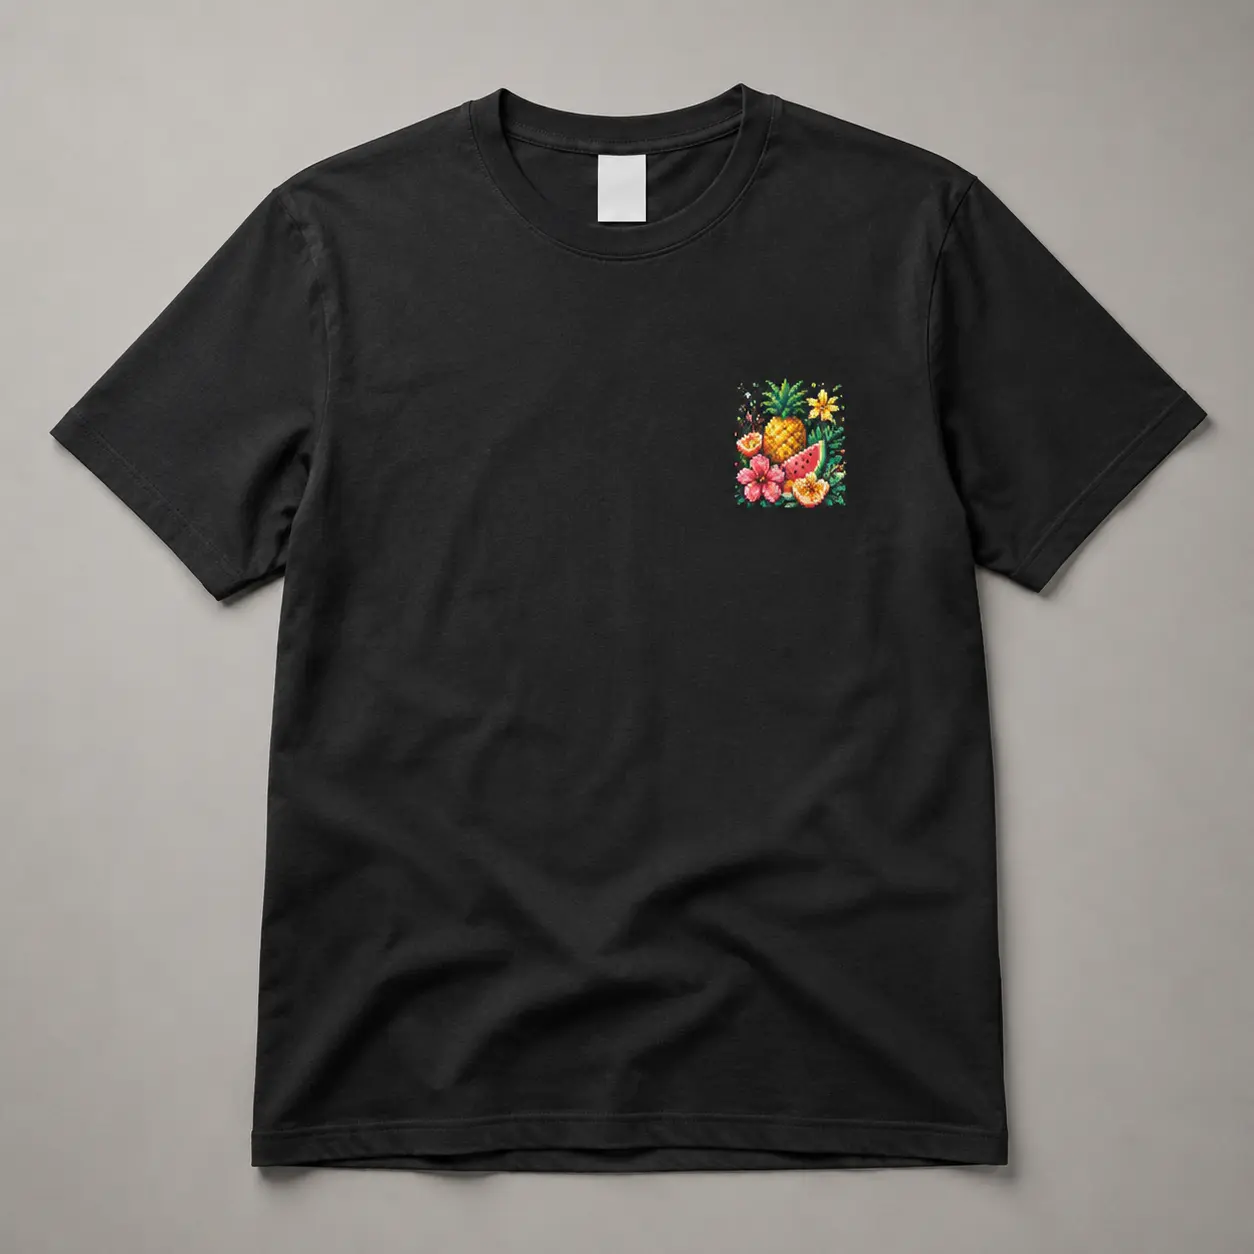
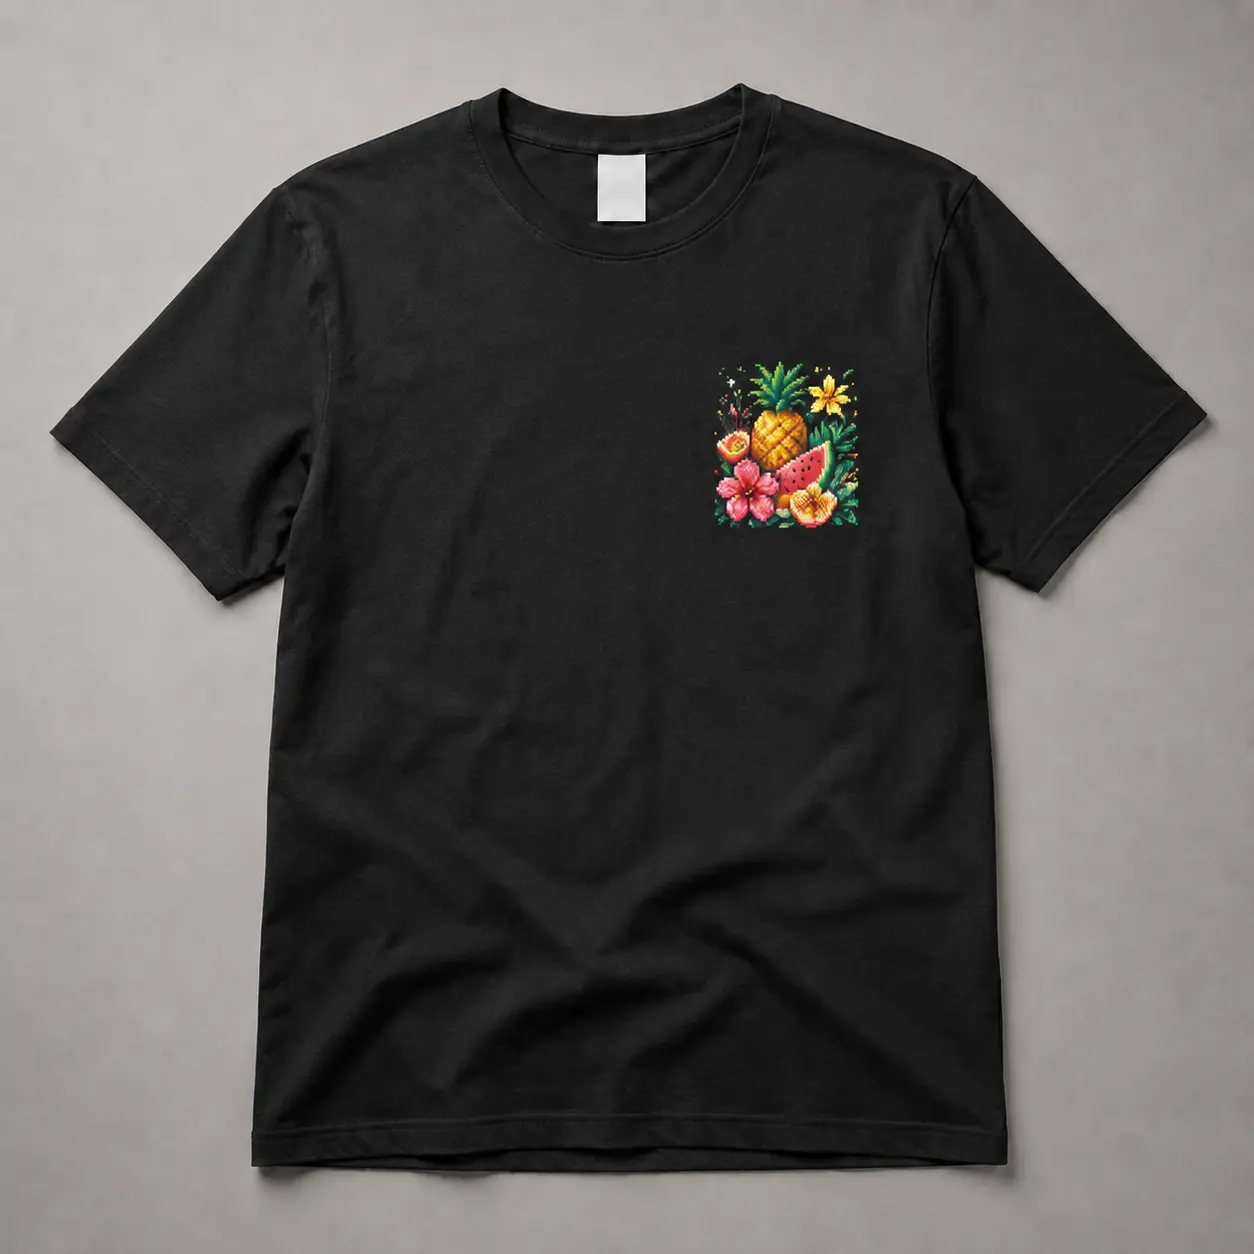
Match DTF samples to actual print ratios

Changed region(s): [[0.5598, 0.2799, 0.6842, 0.4354]]

diff --git a/prices/index.html b/prices/index.html
@@ -8,31 +8,29 @@
 <meta name="description" content="オリジナルTシャツ10枚・30枚・50枚の参考価格と、左胸10cm角・A4・A3のDTFプリント加工料金を分かりやすく紹介します。">
 <meta name="author" content="株式会社ハダオジ"><link rel="canonical" href="https://hadaojiprint.github.io/prices/">
 <meta property="og:type" content="website"><meta property="og:locale" content="ja_JP"><meta property="og:site_name" content="ウェアプリントLAB">
-<meta property="og:title" content="オリジナルTシャツの料金目安｜ウェアプリントLAB"><meta property="og:description" content="10枚・30枚・50枚の参考価格を、架空のプリントイメージと内訳で紹介します。">
+<meta property="og:title" content="オリジナルTシャツの料金目安｜ウェアプリントLAB"><meta property="og:description" content="10枚・30枚・50枚の参考価格を、プリントイメージと内訳で紹介します。">
 <meta property="og:url" content="https://hadaojiprint.github.io/prices/"><meta property="og:image" content="https://hadaojiprint.github.io/public/wearprint-lab-hero.png"><meta name="twitter:card" content="summary_large_image">
-<script type="application/ld+json">{"@context":"https://schema.org","@type":"WebPage","name":"オリジナルTシャツの料金目安","url":"https://hadaojiprint.github.io/prices/","description":"オリジナルTシャツ10枚・30枚・50枚の参考価格を架空のプリントイメージと内訳で紹介します。","dateModified":"2026-08-28","inLanguage":"ja"}</script>
+<script type="application/ld+json">{"@context":"https://schema.org","@type":"WebPage","name":"オリジナルTシャツの料金目安","url":"https://hadaojiprint.github.io/prices/","description":"オリジナルTシャツ10枚・30枚・50枚の参考価格をプリントイメージと内訳で紹介します。","dateModified":"2026-08-28","inLanguage":"ja"}</script>
 <link rel="icon" href="../public/favicon.svg"><link rel="stylesheet" href="../styles.css?v=20260828t">
 <!-- Google AdSense --><script async src="https://pagead2.googlesyndication.com/pagead/js/adsbygoogle.js?client=ca-pub-6042145732175462" crossorigin="anonymous"></script>
 </head><body class="info-page prices-page"><div class="scanlines" aria-hidden="true"></div>
 <header class="game-header island-header"><a class="logo" href="../"><span class="logo-pixel">W</span><span>WEAR PRINT<br><b>LAB</b></span></a><nav aria-label="メインメニュー"><a href="../">TOP</a><a href="../works/">WORKS</a><a href="../estimate/">ESTIMATE</a></nav><a class="pixel-button small" href="../">MAP ◀</a></header>
 <main>
-  <section class="info-hero prices-hero"><div class="info-hero-inner"><span class="info-kicker">PRICE QUEST / SAMPLE EQUIPMENT</span><h1>料金目安</h1><p>架空のプリントイメージを使い、枚数・加工・製版を含む参考価格を紹介します。</p></div></section>
+  <section class="info-hero prices-hero"><div class="info-hero-inner"><span class="info-kicker">PRICE QUEST / SAMPLE EQUIPMENT</span><h1>料金目安</h1><p>プリントイメージを使い、枚数・加工・製版を含む参考価格を紹介します。</p></div></section>
   <div class="prices-main">
-    <section class="price-notice" aria-label="料金についての注意"><b>PRICE GUIDE</b><div><h2>すべて架空のイメージです</h2><p>掲載画像は料金説明用に制作したサンプルです。実在するお客様・チーム・店舗とは関係ありません。</p></div></section>
-
     <div class="price-sample-grid">
       <article class="price-sample-card">
-        <div class="price-sample-image"><img src="../public/prices/price-10-front.webp" alt="黒いTシャツの中央に白1色の山と太陽をプリントした架空のイメージ" width="1254" height="1254"></div>
+        <div class="price-sample-image"><img src="../public/prices/price-10-front.webp" alt="黒いTシャツの中央に白1色の山と太陽をプリントしたイメージ" width="1254" height="1254"></div>
         <div class="price-sample-copy"><small>SAMPLE QUEST 01</small><h2>10枚・片面1色</h2><strong>18,200<em>円（税別）</em></strong><p>少人数のチームやお店のスタッフウェアを想定した基本例です。</p><dl><div><dt>カラーTシャツ</dt><dd>720円 × 10枚＝7,200円</dd></div><div><dt>1色プリント・1か所</dt><dd>300円 × 10枚＝3,000円</dd></div><div><dt>製版代・1版</dt><dd>8,000円</dd></div></dl><span>1枚あたり 1,820円（税別）</span></div>
       </article>
 
       <article class="price-sample-card price-sample-card--yellow">
-        <div class="price-sample-image"><img src="../public/prices/price-30-front.webp" alt="黄色いTシャツの中央に紺1色の波と太陽をプリントした架空のイメージ" width="1254" height="1254" loading="lazy"></div>
+        <div class="price-sample-image"><img src="../public/prices/price-30-front.webp" alt="黄色いTシャツの中央に紺1色の波と太陽をプリントしたイメージ" width="1254" height="1254" loading="lazy"></div>
         <div class="price-sample-copy"><small>SAMPLE QUEST 02</small><h2>30枚・片面1色</h2><strong>38,600<em>円（税別）</em></strong><p>部活・イベント・サークルで同じデザインをまとめて作る基本例です。</p><dl><div><dt>カラーTシャツ</dt><dd>720円 × 30枚＝21,600円</dd></div><div><dt>1色プリント・1か所</dt><dd>300円 × 30枚＝9,000円</dd></div><div><dt>製版代・1版</dt><dd>8,000円</dd></div></dl><span>1枚あたり 約1,287円（税別）</span></div>
       </article>
 
       <article class="price-sample-card price-sample-card--green">
-        <div class="price-sample-image"><img src="../public/prices/price-50-both.webp" alt="緑色のTシャツの前面と背面にクリーム1色の図柄をプリントした架空のイメージ" width="1254" height="1254" loading="lazy"></div>
+        <div class="price-sample-image"><img src="../public/prices/price-50-both.webp" alt="緑色のTシャツの前面と背面にクリーム1色の図柄をプリントしたイメージ" width="1254" height="1254" loading="lazy"></div>
         <div class="price-sample-copy"><small>SAMPLE QUEST 03</small><h2>50枚・前後各1色</h2><strong>82,000<em>円（税別）</em></strong><p>左胸と背中など、2か所へ別デザインを入れるチームウェアの基本例です。</p><dl><div><dt>カラーTシャツ</dt><dd>720円 × 50枚＝36,000円</dd></div><div><dt>1色プリント・2か所</dt><dd>300円 × 50枚 × 2＝30,000円</dd></div><div><dt>製版代・2版</dt><dd>8,000円 × 2＝16,000円</dd></div></dl><span>1枚あたり 1,640円（税別）</span></div>
       </article>
     </div>
@@ -59,18 +57,18 @@
       </div>
 
       <section class="dtf-quotes" aria-labelledby="dtf-quotes-title">
-        <header><small>SAMPLE &amp; ESTIMATE / 10 SHIRTS</small><h3 id="dtf-quotes-title">プリント見本と10枚の見積もり例</h3><p>すべて架空のフルカラーデザインです。カラー綿Tシャツ10枚へ、前面1か所をプリントした場合で比較できます。</p></header>
+        <header><small>SAMPLE &amp; ESTIMATE / 10 SHIRTS</small><h3 id="dtf-quotes-title">プリント見本と10枚の見積もり例</h3><p>カラー綿Tシャツ10枚へ、前面1か所をプリントした場合で比較できます。一般的なMサイズ相当のTシャツに、実寸比率を合わせて掲載しています。</p></header>
         <div class="dtf-quote-grid">
           <article class="dtf-quote-card">
-            <figure><img src="../public/prices/dtf-10cm-sample.webp" alt="黒いTシャツの左胸に10cm角の架空のフルカラーデザインをDTFプリントした見本" width="1254" height="1254" loading="lazy" style="display:block;width:100%;max-width:100%;height:auto;object-fit:contain"><figcaption>架空のプリントイメージ</figcaption></figure>
+            <figure><img src="../public/prices/dtf-10cm-sample.webp?v=20260828b" alt="黒いTシャツの左胸に10cm角のフルカラーデザインをDTFプリントした見本" width="1254" height="1254" loading="lazy" style="display:block;width:100%;max-width:100%;height:auto;object-fit:contain"><figcaption>10cm×10cm 実寸比率</figcaption></figure>
             <div class="dtf-quote-copy"><small>SAMPLE 01 / LEFT CHEST</small><h4>10cm×10cm</h4><p>左胸のロゴやワンポイントに。</p><dl><div><dt>カラーTシャツ</dt><dd>720円 × 10枚＝7,200円</dd></div><div><dt>DTFプリント</dt><dd>650円 × 10枚＝6,500円</dd></div></dl><strong>合計 13,700円<em>（税別）</em></strong><span>1枚あたり 1,370円</span></div>
           </article>
           <article class="dtf-quote-card dtf-quote-card--a4">
-            <figure><img src="../public/prices/dtf-a4-sample.webp" alt="ベージュのTシャツ中央にA4サイズの架空のフルカラーデザインをDTFプリントした見本" width="1254" height="1254" loading="lazy" style="display:block;width:100%;max-width:100%;height:auto;object-fit:contain"><figcaption>架空のプリントイメージ</figcaption></figure>
+            <figure><img src="../public/prices/dtf-a4-sample.webp?v=20260828b" alt="ベージュのTシャツ中央にA4サイズのフルカラーデザインをDTFプリントした見本" width="1254" height="1254" loading="lazy" style="display:block;width:100%;max-width:100%;height:auto;object-fit:contain"><figcaption>A4 実寸比率</figcaption></figure>
             <div class="dtf-quote-copy"><small>SAMPLE 02 / STANDARD</small><h4>A4サイズ</h4><p>胸中央や背中の標準的なサイズに。</p><dl><div><dt>カラーTシャツ</dt><dd>720円 × 10枚＝7,200円</dd></div><div><dt>DTFプリント</dt><dd>1,600円 × 10枚＝16,000円</dd></div></dl><strong>合計 23,200円<em>（税別）</em></strong><span>1枚あたり 2,320円</span></div>
           </article>
           <article class="dtf-quote-card dtf-quote-card--a3">
-            <figure><img src="../public/prices/dtf-a3-sample.webp" alt="紺色のTシャツ中央にA3サイズの架空のフルカラーデザインをDTFプリントした見本" width="1254" height="1254" loading="lazy" style="display:block;width:100%;max-width:100%;height:auto;object-fit:contain"><figcaption>架空のプリントイメージ</figcaption></figure>
+            <figure><img src="../public/prices/dtf-a3-sample.webp?v=20260828b" alt="紺色のTシャツ中央にA3サイズのフルカラーデザインをDTFプリントした見本" width="1254" height="1254" loading="lazy" style="display:block;width:100%;max-width:100%;height:auto;object-fit:contain"><figcaption>A3 実寸比率</figcaption></figure>
             <div class="dtf-quote-copy"><small>SAMPLE 03 / LARGE</small><h4>A3サイズ</h4><p>背中や前面へ大きく見せたいデザインに。</p><dl><div><dt>カラーTシャツ</dt><dd>720円 × 10枚＝7,200円</dd></div><div><dt>DTFプリント</dt><dd>2,400円 × 10枚＝24,000円</dd></div></dl><strong>合計 31,200円<em>（税別）</em></strong><span>1枚あたり 3,120円</span></div>
           </article>
         </div>
